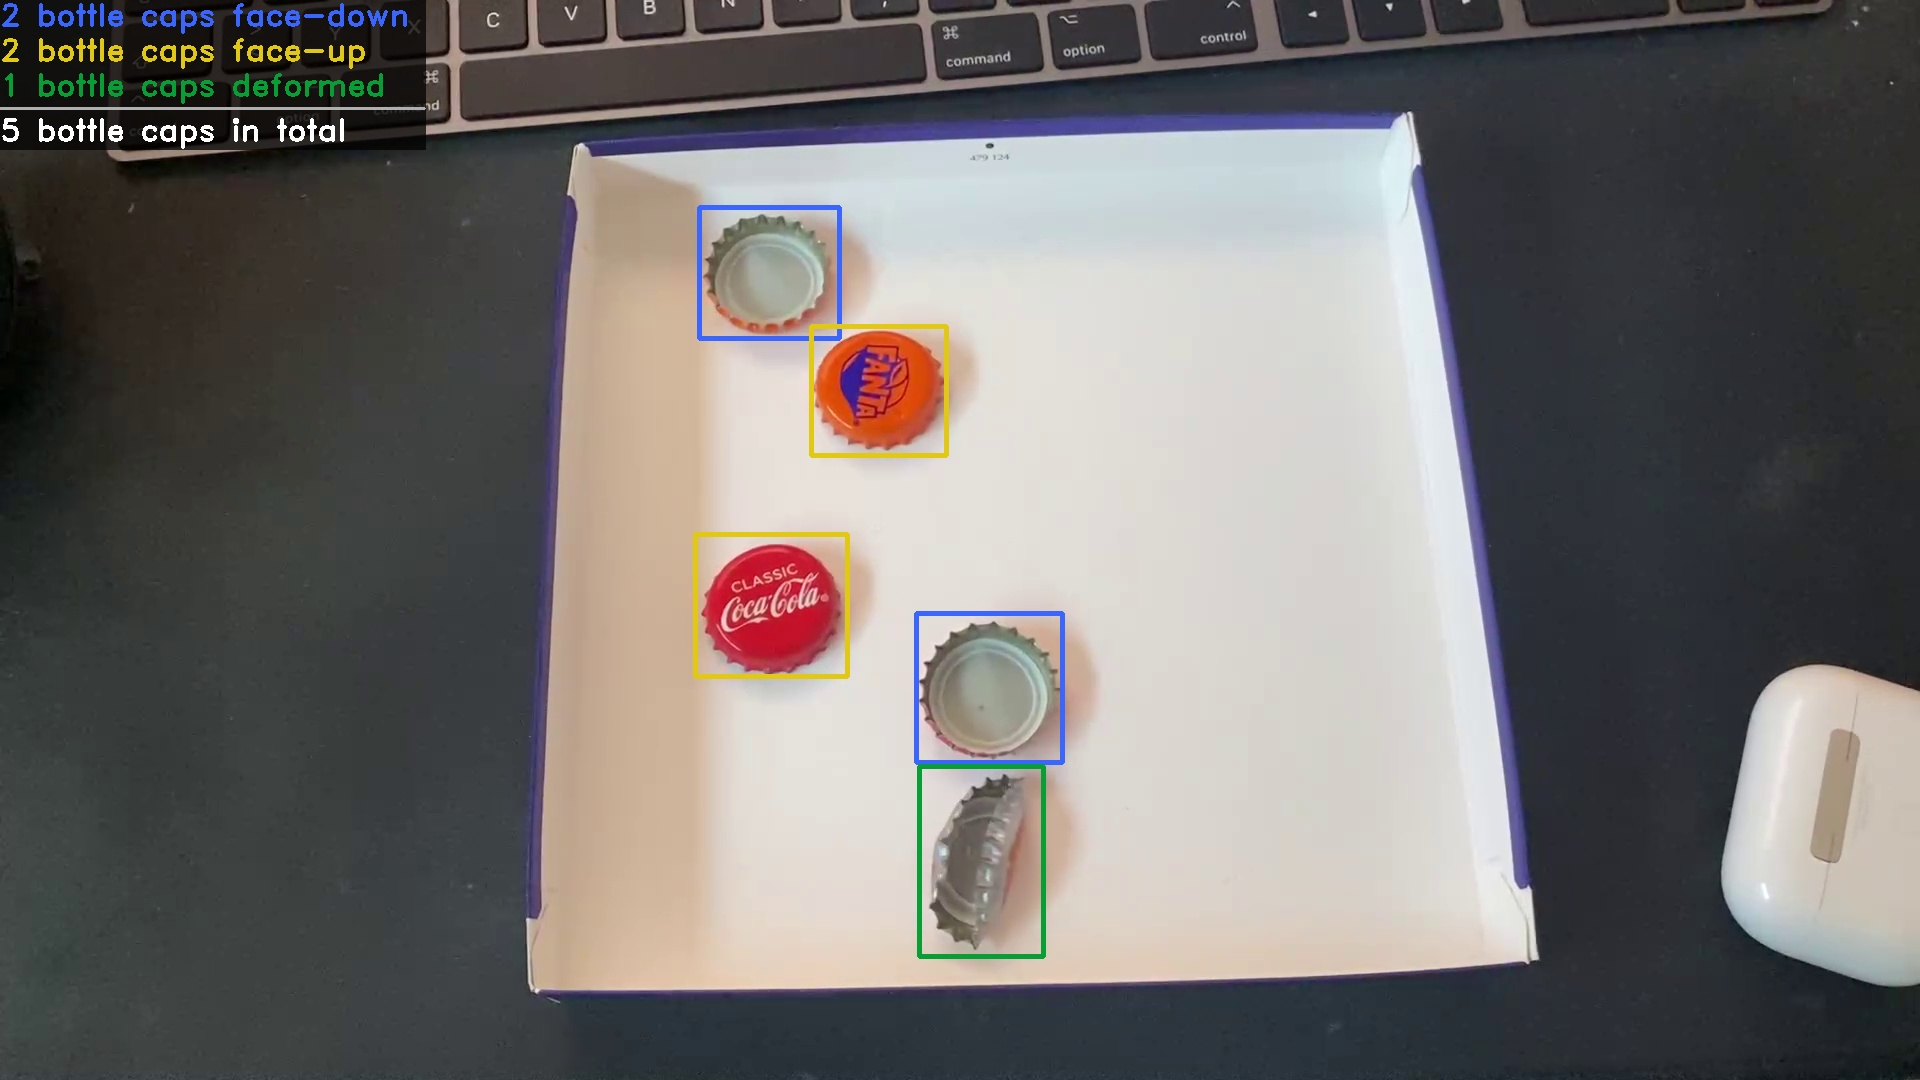
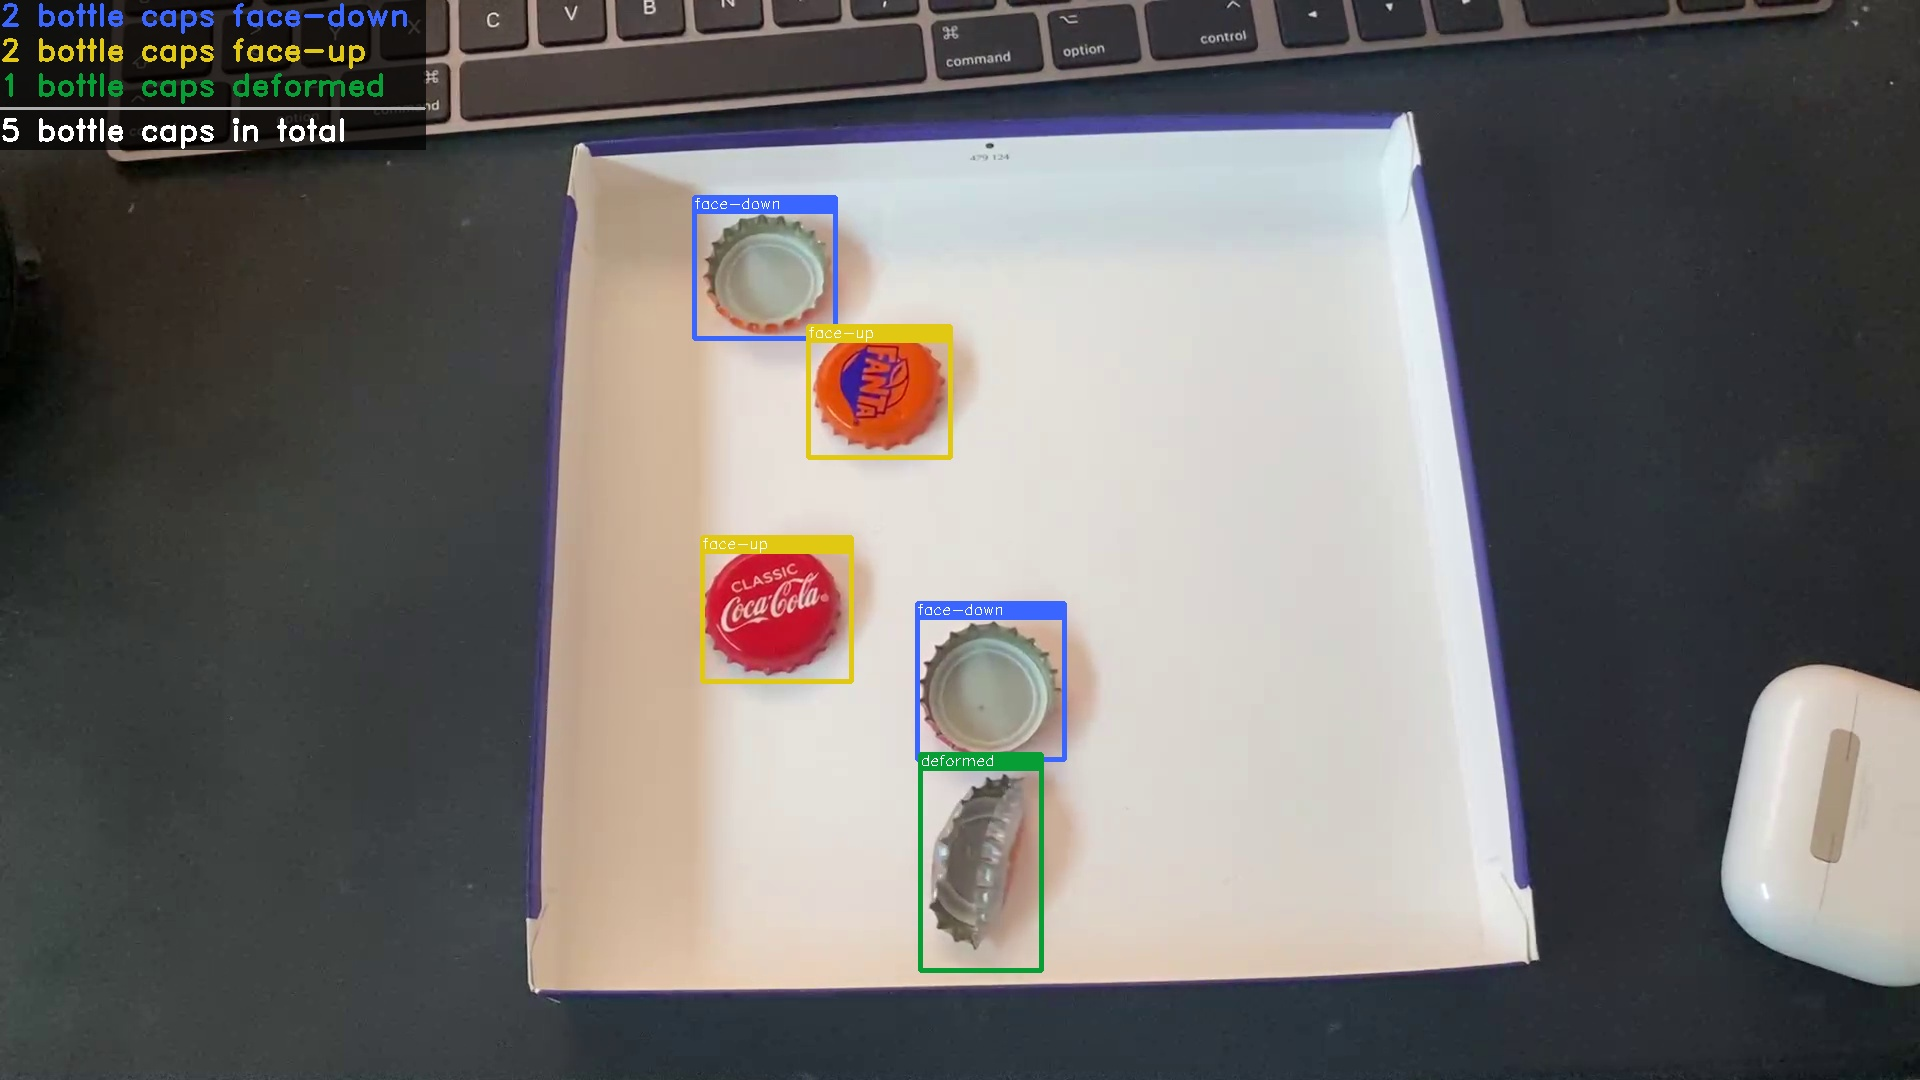
added info-header to bounding box-annotation + more
- added some code comments
- added option to show confidence values in the annotated result (--show-conf)
- updated README

Changed region(s): [[0.3438, 0.4889, 0.5625, 0.9167], [0.3438, 0.1528, 0.5, 0.4278]]

diff --git a/Cheers/cheers.py b/Cheers/cheers.py
@@ -10,6 +10,7 @@ FRAME_POSITION = cv2.CAP_PROP_POS_FRAMES
 FRAME_COUNT = cv2.CAP_PROP_FRAME_COUNT
 START_FRAME_FACTOR = 1/3
 END_FRAME_FACTOR = 2/3
+LIVE_FRAMESKIP = 0
 
 STILLFRAME_FOLDER = './Output/Still Frames/'
 ANNOTATED_OUTPUT_FOLDER = './Output/Annotated Frames/'
@@ -22,33 +23,52 @@ WEIGHTS_NAME = 'v4tiny_15000.weights'
 
 NON_MAX_SUPRESSION_THRESHOLD = 0.5
 CONF_THRESHOLD = 0.5
+ANNOTATION_LINE_THICKNESS = 4
+
 
 CLASS_COLORS = [(255, 101, 59), (19, 201, 225), (53, 159, 7)]
 CLASS_NAMES = ["face-down", "face-up", "deformed"]
 
-def printDebug(message, forcePrint=False):
+def print_verbose(message, forcePrint=False):
     if VERBOSE or forcePrint: print("-- [%.3f s] %s --" % ((time.time() - start_time), message))
+
+def clean_filename(filename):
+    try:
+        # filter path information out of passed in filename, e.g. if the specified file is in a different folder
+        components = filename.split('/')
+        return components[len(components)-1]
+    except ValueError:
+        print_verbose("could not clean filename")
+        return filename
 
 def detect_the_bottle_caps():
     if os.path.exists(opt.video) or os.path.exists(opt.image):
         # ----- Live Video Inference -----
         if(opt.live):
-            printDebug("starting live video inference using %s" % opt.video, forcePrint=True)
+            print_verbose("starting live video inference using %s" % opt.video, forcePrint=True)
             video_inference(opt.video)
 
         # ----- Image Inference -----
         # Still Frame Detection + Inference / Input Image Inference
         else:
+            # either detect a still frame from the video or directly use the passed-in --image file
             should_detect_stillframe = os.path.exists(opt.video)
             if(should_detect_stillframe): still_frame = get_still_frame_from_video(opt.video)
             else: still_frame = cv2.imread(opt.image)
-            printDebug("inference started")
+            
+            # start inference on the detected/supplied still frame
+            print_verbose("inference started")
             annotated_image = image_inference(still_frame)
-            printDebug("inference ended")
+            print_verbose("inference ended")
+
+            # save the annotated result in the annotated output folder
             filename = opt.video if (should_detect_stillframe) else opt.image
+            filename = clean_filename(filename)
             output_filepath = ANNOTATED_OUTPUT_FOLDER + filename + "_annotated.jpg"
             cv2.imwrite(output_filepath, annotated_image)
-            printDebug("successfully saved an annotated frame [%s]" % output_filepath, forcePrint=True)
+            print_verbose("successfully saved an annotated frame [%s]" % output_filepath, forcePrint=True)
+
+            # directly show the results if --show-result is being used
             if(opt.show_result):
                 cv2.imshow("Cheers - Annotated Output", annotated_image)
                 cv2.waitKey()
@@ -59,45 +79,48 @@ def detect_the_bottle_caps():
 def get_still_frame_from_video(video_filepath):
     # load OpenCV VideoCapture on specified video
     vid = cv2.VideoCapture(video_filepath)
-    printDebug("opened video file")
+    print_verbose("opened video file")
+
     # get total num of frames
     total_frames    = int(cv2.VideoCapture.get(vid, FRAME_COUNT))
+    
     # calculate start and end-frame for further inspection based on the total amount of frames
-    # in this case: inspection starts at 1/4th of the videos length and ends at 3/4ths, skipping 50% of "unnecessary" video footage
     start_frame     = int(total_frames*START_FRAME_FACTOR)
     end_frame       = int(total_frames*END_FRAME_FACTOR)
     fps             = int(vid.get(cv2.CAP_PROP_FPS))
+    print_verbose("calculated frame range")
 
-    printDebug("calculated frame range")
     # "manually" read and store first frame, so that frame i+1 can check against last_frame (= frame i)
     vid.set(FRAME_POSITION, start_frame)
     ret, last_frame = vid.read()
-    printDebug("grabbed first frame")    
+    print_verbose("grabbed first frame")    
     
+    # pre-set detected-still frame to the initially read frame and its absolute difference to the previous one (infinity, since there is no previous frame)
     detected_still_frame = last_frame
     min_absdiff = float('inf')
 
     # check one frame per every two seconds of video
-
+    print_verbose("looking for a still frame")
     for i in range(start_frame+1, end_frame, fps*2):
         # skip to frame i
         vid.set(FRAME_POSITION, i)
         # read still image from video frame, check ret (bool) if frame is correctly read or not
         ret, frame = vid.read()
-
+        # calculate absolute difference between frame (x-1) and (x)
         diff = cv2.absdiff(last_frame, frame)
+        # overwrite detected_still_frame if new lowest difference has been found
         if(diff.sum() < min_absdiff):
             detected_still_frame = frame
             min_absdiff = diff.sum()
-
+        # set frame (x-1) to (x) for the next iteration
         last_frame = frame
+    print_verbose("detected a still frame")    
     
-    printDebug("detected still frame")    
-    
+    # save the detected still frame if --save-stillframe is being used
     if(opt.save_stillframe):
         filename = STILLFRAME_FOLDER + f'{video_filepath}_stillframe.jpg'  
         cv2.imwrite(filename, detected_still_frame)
-        printDebug("saved still frame")
+        print_verbose("saved still frame")
 
     return detected_still_frame
 
@@ -106,30 +129,39 @@ def image_inference(image):
     net = cv2.dnn_DetectionModel((CONFIG_DIR + CONFIG_NAME), (WEIGHTS_DIR + WEIGHTS_NAME))
     net.setInputScale(1/500)
     net.setInputSize((960,540))    
+    
     # set preferred backend and target to run the inference on
     net.setPreferableBackend(cv2.dnn.DNN_BACKEND_DEFAULT);
     net.setPreferableTarget(cv2.dnn.DNN_TARGET_CPU);
-    printDebug("initialized detection model")
-    printDebug("starting bottle cap detection")
+    print_verbose("initialized detection model")
+    print_verbose("starting bottle cap detection")
+    
     # run opencv's detect function on the passed-in image, using the specified confidence and non-max-supression threshs
     classIds, confidences, boxes = net.detect(image, opt.conf_thres, opt.nms_thres)
+    
     # get amount of distinct class objects
     classList = list(classIds)
     bottlecaps_facedown = classList.count(0)
     bottlecaps_faceup = classList.count(1)
     bottlecaps_deformed = classList.count(2)
-
-    printDebug("detected %s bottle caps in total [%i %s, %i %s, %i %s]" % (len(boxes), bottlecaps_facedown, CLASS_NAMES[0], bottlecaps_faceup, CLASS_NAMES[1], bottlecaps_deformed, CLASS_NAMES[2]))
+    print_verbose("detected %s bottle caps in total [%i %s, %i %s, %i %s]" % (len(boxes), bottlecaps_facedown, CLASS_NAMES[0], bottlecaps_faceup, CLASS_NAMES[1], bottlecaps_deformed, CLASS_NAMES[2]))
+    
     # draw bounding boxes around detected bottle caps
-    box_linethickness = 4
-    printDebug("annotation started")
+    print_verbose("annotation started")
     for box in range(0, len(boxes)):
         x, y = boxes[box][0:2]
         w, h = boxes[box][2:4]
         color = CLASS_COLORS[classIds[box][0]]
-        cv2.rectangle (image, (x,y), (x+w, y+h), color, box_linethickness)
-        printDebug("annotation: bottle cap %s at position (%s,%s) with confidence %.2f" % (CLASS_NAMES[classIds[box][0]], x, y, confidences[box]))
-    printDebug("annotation ended")
+        # draw bounding box
+        cv2.rectangle (image, (x,y), (x+w, y+h), color, ANNOTATION_LINE_THICKNESS)
+        # draw info header
+        header_height = 16
+        cv2.rectangle (image, (x,y), (x+w, y+header_height), color, -1)
+        cv2.putText(image, CLASS_NAMES[classIds[box][0]], (x,y+header_height-5), cv2.FONT_HERSHEY_SIMPLEX, 0.5, (255,255,255))
+        # draw confidence, if --show-conf is being used
+        if (opt.show_conf): cv2.putText(image, "%.2f" % confidences[box], (x,y+h-5), cv2.FONT_HERSHEY_SIMPLEX, 0.6, (0,0,0), 2)
+        print_verbose("annotation: bottle cap %s at position (%s,%s) with confidence %.2f" % (CLASS_NAMES[classIds[box][0]], x, y, confidences[box]))
+    print_verbose("annotation ended")
     # -- draw top-left verbose info-output --
     
     
@@ -140,37 +172,38 @@ def image_inference(image):
     res = cv2.addWeighted(sub_img, 0.25, black_rect, 0.5, 1.0)
     image[y:y+h, x:x+w] = res
     
-    # draw text info
+    # draw text info and separator line (between total amount and classes)
     cv2.putText(image, str(bottlecaps_facedown) + " bottle caps face-down", (0,25), cv2.FONT_HERSHEY_DUPLEX, 1, CLASS_COLORS[0], 2)
     cv2.putText(image, str(bottlecaps_faceup) + " bottle caps face-up", (0,60), cv2.FONT_HERSHEY_DUPLEX, 1, CLASS_COLORS[1], 2)
     cv2.putText(image, str(bottlecaps_deformed) + " bottle caps deformed", (0,95), cv2.FONT_HERSHEY_DUPLEX, 1, CLASS_COLORS[2], 2)
     cv2.putText(image, str(bottlecaps_facedown + bottlecaps_faceup + bottlecaps_deformed) + " bottle caps in total", (0,140), cv2.FONT_HERSHEY_DUPLEX, 1, (255,255,255), 2)
-    # draw separator line (between total amount and classes)
     cv2.line(image, (0, 108), (424, 108), (175,175,175), 2)
 
     return image
 
 def video_inference(video):
+    # read video file
     vid = cv2.VideoCapture(video)
-    total_frames    = int(cv2.VideoCapture.get(vid, FRAME_COUNT))
-    frameskip       = 1
+    total_frames = int(cv2.VideoCapture.get(vid, FRAME_COUNT))
 
-    for i in range(0, total_frames, 1+frameskip):
+    # use every 1+LIVE_FRAMESKIP frame to read and run inference on
+    for i in range(0, total_frames, 1+LIVE_FRAMESKIP):
         # skip to frame i
         vid.set(FRAME_POSITION, i)
         # read still image from video frame, check ret (bool) if frame is correctly read or not
         ret, frame = vid.read()
-
+        # if frame is correctly read, run inference and immediately show the result
         if (ret):
             annotated_frame = image_inference(frame)
             cv2.imshow('Cheers - Video Inference', annotated_frame)          
-        
+        # press ESC to quit prematurely
         if cv2.waitKey(1) == 27:
             break
 
 
 if __name__ == "__main__":
     start_time = time.time()
+
     parser = argparse.ArgumentParser()
     parser.add_argument('--verbose', action='store_true',                                       help='print verbose info during runtime')
     parser.add_argument('--video' , type=str, default='',                                       help='input video file to extract a still frame and scan for bottle caps')
@@ -178,6 +211,7 @@ if __name__ == "__main__":
     parser.add_argument('--conf-thres', type=float, default=CONF_THRESHOLD,                     help='object confidence threshold')
     parser.add_argument('--nms-thres', type=float, default=NON_MAX_SUPRESSION_THRESHOLD,        help='non max suppression threshold')
     parser.add_argument('--show-result', action='store_true',                                   help='display results')
+    parser.add_argument('--show-conf', action='store_true',                                     help='display the confidence values in the annotated result')
     parser.add_argument('--save-stillframe', action='store_true',                               help='save detected still-frames in the corresponding subfolder')
     parser.add_argument('--live', action='store_true',                                          help='live-annotation of the specified input video, frame-by-frame')
     opt = parser.parse_args()

diff --git a/README.md b/README.md
@@ -5,27 +5,35 @@
  2. detects and extracts a still frame
  3. runs inference on the still frame
  4. detects and annotates any matching bottle caps (face-down/face-up/deformed)
- 
+
  I've trained my model using YOLOv4-tiny using ~500 images for training.
  ## Dependencies
  OpenCV-Python
+
  Python3
+
  ## Install / Run
 Simply clone this repo or download + unzip. Then, simply run
+
 `python3 cheers.py --video some_vid.mp4`
+
 or
+
 `python3 cheers.py --image some_img.jpg`
 and you'll get an annotated still frame in ./Output/Annotated Frames/ after approx. 0.2s for input images and approx. 0.5-1.0s for input videos. 
+
 **Cheers** can also be used to live-annotate a passed-in video. You can also specify your own confidence- and non-max-suppresion-thresholds; please take a look at the parameters below.
 
-### Parameters
+ ## Arguments
+
 ```
---verbose 				print extensive information per step during runtime
---video					path to video file (to first detect a still frame from and then run inference on)
---image					path to image file (to directly run inference on)
---conf-thres			confidence threshold [0.0-1.0] whether or not a detected object is a bottle cap
---nms-thres				non-max-suppression threshold [0.0-1.0] used to select the best bounding box per detected object
---show-result			immediately show the annotated output frame using cv2.imshow
+--verbose 					print extensive information per step during runtime
+--video							path to video file (to first detect a still frame from and then run inference on)
+--image							path to image file (to directly run inference on)
+--conf-thres				confidence threshold [0.0-1.0] whether or not a detected object is a bottle cap
+--nms-thres					non-max-suppression threshold [0.0-1.0] used to select the best bounding box per detected object
+--show-result				immediately show the annotated output frame using cv2.imshow
+--show-conf					display the confidence values in the annotated result
 --save-stillframe		save the detected still frame (default = false)
---live					show live-annotation of the passed in video-file, frame-by-frame
+--live							show live-annotation of the passed in video-file, frame-by-frame
 ```
